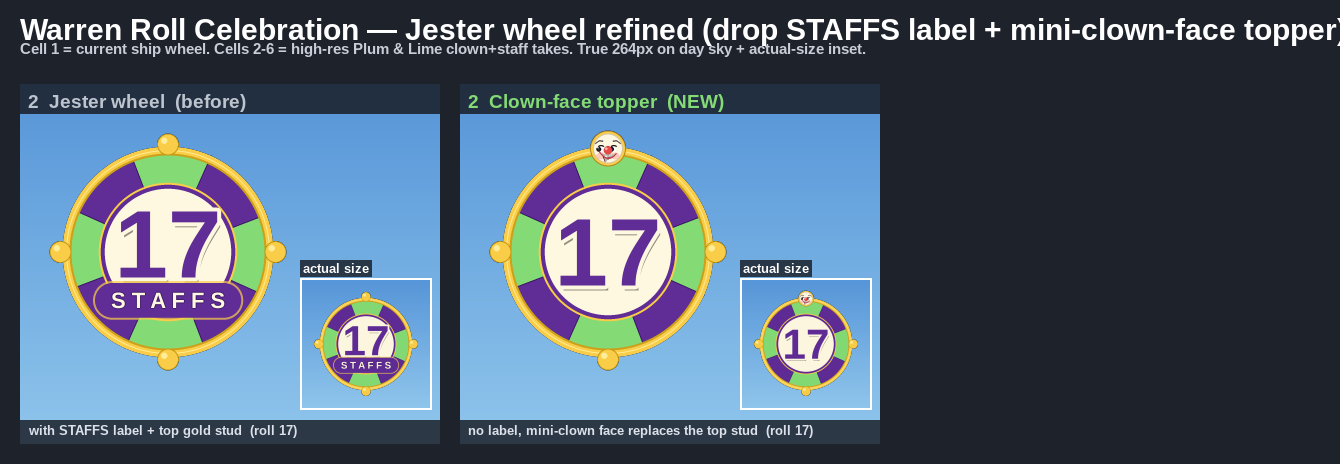
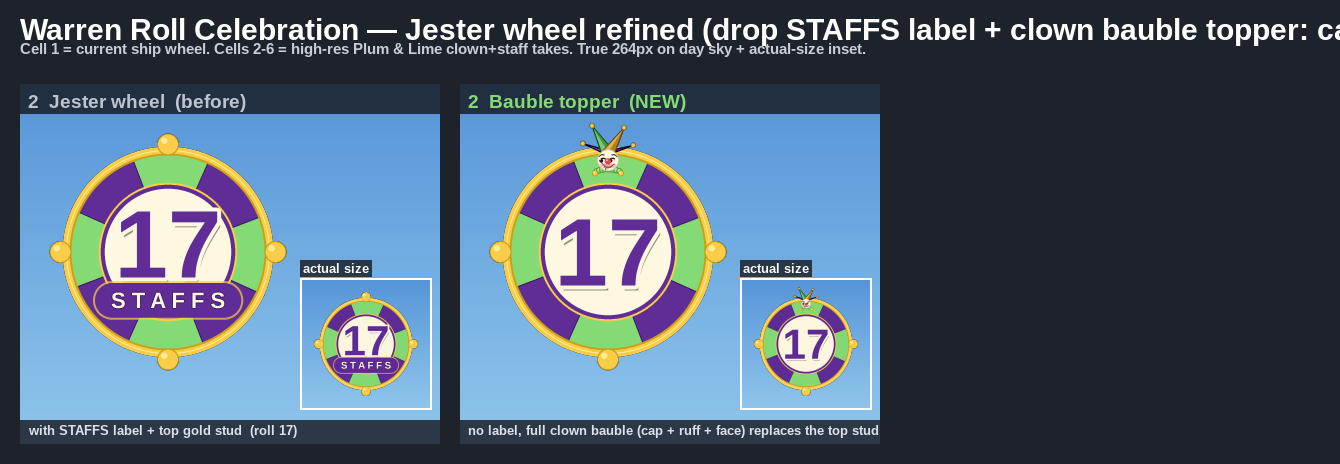
Warren celebration: topper is the full clown bauble (cap + ruff + face)
Replace the face-only topper with the staff's whole mini-clown bauble — the
4-point bell cap (hat), the lime belled ruff (scarf) and the face — via a new
_jester_bauble helper, crowning the wheel above the label-free number.

diff --git a/tools/render_warren_celebration.py b/tools/render_warren_celebration.py
@@ -742,11 +742,38 @@ def var_bell_sunburst_r2(roll, ss):
     return canvas, D
 
 
-# ── Cell 2 (R3): the chosen wheel, label dropped + mini-clown face topper ─────
+def _jester_bauble(canvas, cx, hy, hr, ss):
+    """The staff's mini-clown BAUBLE head — the same assembly that crowns the
+    Carousel-Barker staff: a 4-point bell-tipped jester CAP (his hat), the lime
+    belled RUFF collar (the "scarf"), and the grinning mini-clown FACE. The cap
+    offsets are authored for hr = 13*ss, so they scale by u = hr / (13*ss)."""
+    u = hr / (13.0 * ss)
+    base_y = hy - hr + int(1 * ss)
+    span = max(2, int(8 * ss * u))
+    for (dx, dy, col) in [(-30, -8, PLUM_DK), (30, -6, PLUM_DK),
+                          (-19, -29, LIME_DK), (19, -27, GOLD_DK)]:
+        bxp = cx + int(dx * ss * u)
+        byp = base_y + int(dy * ss * u)
+        tri = [(cx - span, base_y + int(2 * ss)),
+               (cx + span, base_y + int(2 * ss)), (bxp, byp)]
+        pygame.draw.polygon(canvas, col, tri)
+        pygame.draw.polygon(canvas, _shade_c(col, 50),
+                            [(cx - span, base_y + int(2 * ss)),
+                             (cx, base_y + int(2 * ss)), (bxp, byp)])
+        pygame.draw.polygon(canvas, _shade_c(col, -60), tri, max(1, int(1.4 * ss)))
+        br = max(2, int(3.4 * ss * u))
+        pygame.draw.circle(canvas, GOLD, (int(bxp), int(byp)), br)
+        pygame.draw.circle(canvas, GOLD_DK, (int(bxp), int(byp)), br, max(1, int(ss)))
+    _marotte_ruff(canvas, cx, hy + hr - int(2 * ss), int(hr * 1.05), ss, LIME, lobes=9)
+    _mini_clown_face(canvas, cx, hy, hr, ss, expr="grin")
+
+
+# ── Cell 2 (R3): the chosen wheel, label dropped + mini-clown BAUBLE topper ───
 def var_jester_wheel_r3(roll, ss):
     """The chosen jester prize-wheel, refined per the user's pick: the "STAFFS"
     label is dropped so the number stands alone, and the TOP cardinal stud is
-    replaced by the staff's own mini-clown bauble face crowning the wheel."""
+    replaced by the staff's own mini-clown bauble (cap + ruff + face) crowning
+    the wheel."""
     D = 264
     HD = D * ss
     c = HD // 2
@@ -768,21 +795,18 @@ def var_jester_wheel_r3(roll, ss):
     pygame.draw.circle(canvas, PLUM, (c, c), hub_r, max(2, int(2 * ss)))
     _num_block(canvas, c, c, roll, ss, size=96, num_col=PLUM, edge_col=CREAM, edge_w=4)
 
-    # The staff's mini-clown bauble face crowns the top, seated where the stud was.
-    # A small gold disc behind it lifts the cream head off the wheel wedges.
-    face_hr = int(15 * ss)
-    fy = c - R + int(2 * ss)
-    pygame.draw.circle(canvas, GOLD, (c, fy), face_hr + int(3 * ss))
-    pygame.draw.circle(canvas, GOLD_DK, (c, fy), face_hr + int(3 * ss), max(1, int(ss)))
-    _mini_clown_face(canvas, c, fy, face_hr, ss, expr="grin")
+    # The staff's whole mini-clown bauble (cap + ruff + face) crowns the top,
+    # where the stud was — sized + seated so the cap clears the canvas top and the
+    # ruff rests on the wheel without dipping onto the number in the hub.
+    _jester_bauble(canvas, c, c - int(R * 0.87), int(11 * ss), ss)
     return canvas, D
 
 
 VARIANTS_R3 = [
     ("2  Jester wheel  (before)", "with STAFFS label + top gold stud",
      var_jester_wheel_r2),
-    ("2  Clown-face topper  (NEW)", "no label, mini-clown face replaces the top stud",
-     var_jester_wheel_r3),
+    ("2  Bauble topper  (NEW)", "no label, full clown bauble (cap + ruff + face) "
+     "replaces the top stud", var_jester_wheel_r3),
 ]
 
 
@@ -882,7 +906,7 @@ def main():
         render_sheet(
             VARIANTS_R3, "round_3.png",
             title="Warren Roll Celebration — Jester wheel refined "
-            "(drop STAFFS label + mini-clown-face topper)")
+            "(drop STAFFS label + clown bauble topper: cap + ruff + face)")
     elif "--warren-cele-r2" in sys.argv:
         render_sheet(
             VARIANTS_R2, "round_2.png",
